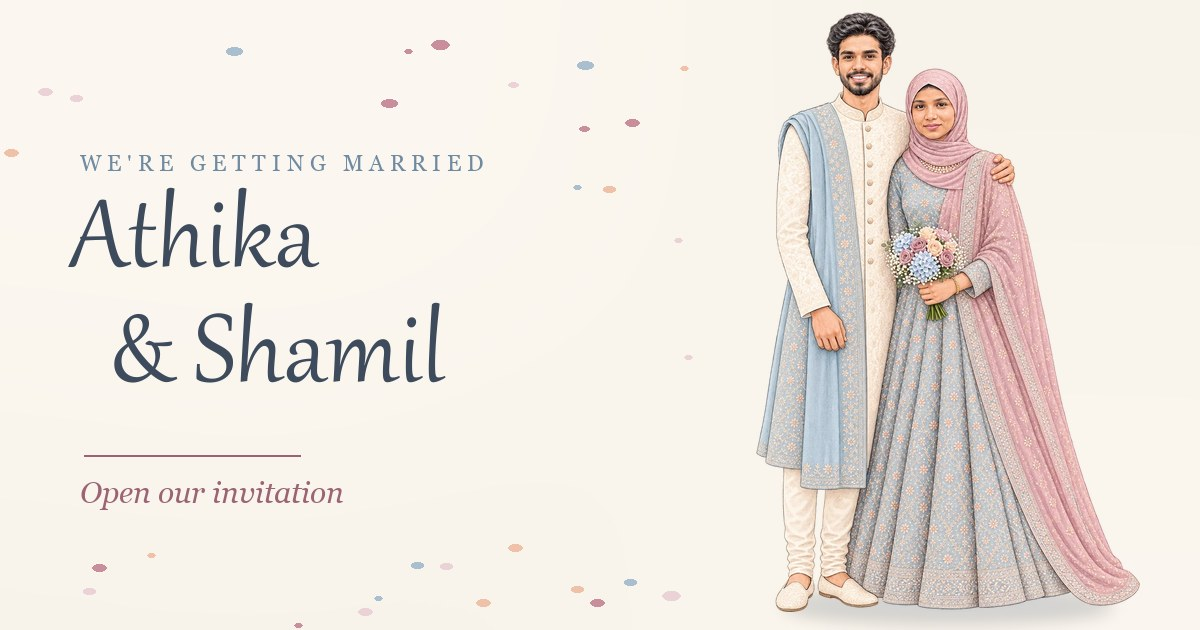
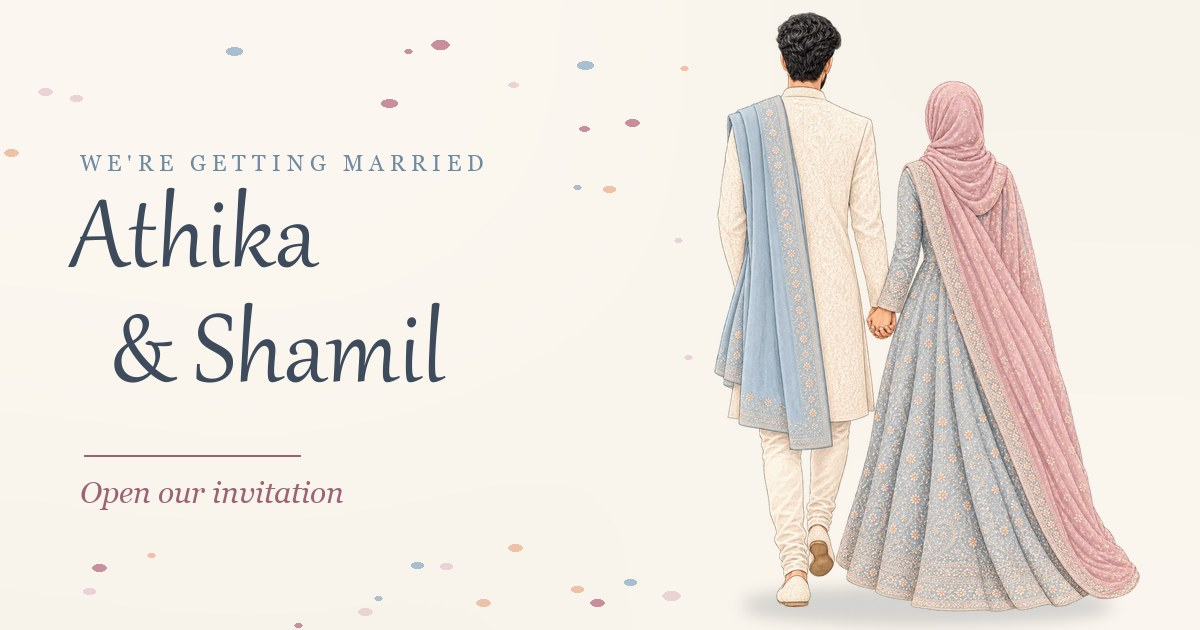
Restore section gap; faster letter reveal; preview image uses back-view couple
- Growing-vine gap back to 32svh
- Letter rises sooner and its lines appear quickly (whole letter in ~1.5s)
- Story holds the invitation scene for 9.5s
- og-image.jpg rebuilt with the back-view walking couple

Changed region(s): [[0.5858, 0.0, 0.9558, 0.9952]]

diff --git a/src/scenes/Invitation.tsx b/src/scenes/Invitation.tsx
@@ -153,13 +153,13 @@ export function Invitation() {
     tl.from(q('.i-in'), { opacity: 0, y: 10, filter: 'blur(4px)', duration: 0.9, stagger: 0.2 }, 1.2)
 
     // after a short pause, the letter rises and reads itself
-    const L = story ? 7.2 : 3.6
+    const L = story ? 7.2 : 3
     const wide = !!(el.querySelector('.letter') as HTMLElement | null)?.dataset.wide
     tl.fromTo(q('.letter'), { opacity: 0, y: 70, rotate: -2.5 }, { opacity: 1, y: 0, rotate: 0, duration: 1.2, ease: 'power3.out' }, L)
     if (!wide) tl.to(q('.art-dim'), { opacity: 0.18, filter: 'blur(1.5px)', duration: 1 }, L)
     drawSketch(tl, el.querySelector('.letter-border'), { at: L + 0.5, duration: 0.9 })
     tl.from(q('.seal'), { scale: 0, rotate: -40, duration: 0.6, ease: 'back.out(2.2)' }, L + 0.7)
-      .from(q('.l-in'), { opacity: 0, y: 8, filter: 'blur(4px)', duration: 0.7, stagger: 0.36 }, L + 1)
+      .from(q('.l-in'), { opacity: 0, y: 6, filter: 'blur(3px)', duration: 0.45, stagger: 0.1 }, L + 0.6)
   })
 
   // the hand-drawn couple's bouquet fills with petals (not used with a photo/illustration)

diff --git a/index.html b/index.html
@@ -21,7 +21,7 @@
     <meta property="og:image:type" content="image/jpeg" />
     <meta property="og:image:width" content="1200" />
     <meta property="og:image:height" content="630" />
-    <meta property="og:image:alt" content="Illustration of Athika and Shamil in their wedding outfits" />
+    <meta property="og:image:alt" content="Illustration of Athika and Shamil walking hand in hand in their wedding outfits" />
     <meta property="og:locale" content="en_IN" />
     <meta name="twitter:card" content="summary_large_image" />
     <meta name="twitter:title" content="Athika &amp; Shamil are getting married 💍" />

diff --git a/src/scenes/GrowingVine.tsx b/src/scenes/GrowingVine.tsx
@@ -48,7 +48,7 @@ export function GrowingVine({ variant = 0 }: { variant?: 0 | 1 }) {
   )
 
   return (
-    <div ref={root} className="relative flex h-[20svh] min-h-[130px] justify-center" aria-hidden>
+    <div ref={root} className="relative flex h-[32svh] min-h-[200px] justify-center" aria-hidden>
       <svg viewBox="0 0 200 420" className="h-full w-auto overflow-visible">
         <path className="vine" d={PATHS[variant]} fill="none" stroke="#6b7a8c" strokeWidth="1.4" strokeLinecap="round" filter="url(#pencil)" />
         {LEAVES.map((_, i) => (

diff --git a/src/App.tsx b/src/App.tsx
@@ -56,7 +56,7 @@ const SCENES: TrailerScene[] = [
   { id: 'date', C: DateBoard, duration: 8.6 },
   { id: 'time', C: TimeScene, duration: 6.2 },
   { id: 'venue', C: Venue, duration: 6.2 },
-  { id: 'invite', C: Invitation, duration: wedding.coupleWalk && wedding.coupleFacing ? 15.5 : 12 },
+  { id: 'invite', C: Invitation, duration: wedding.coupleWalk && wedding.coupleFacing ? 15.5 : 9.5 },
 ]
 
 export default function App() {
